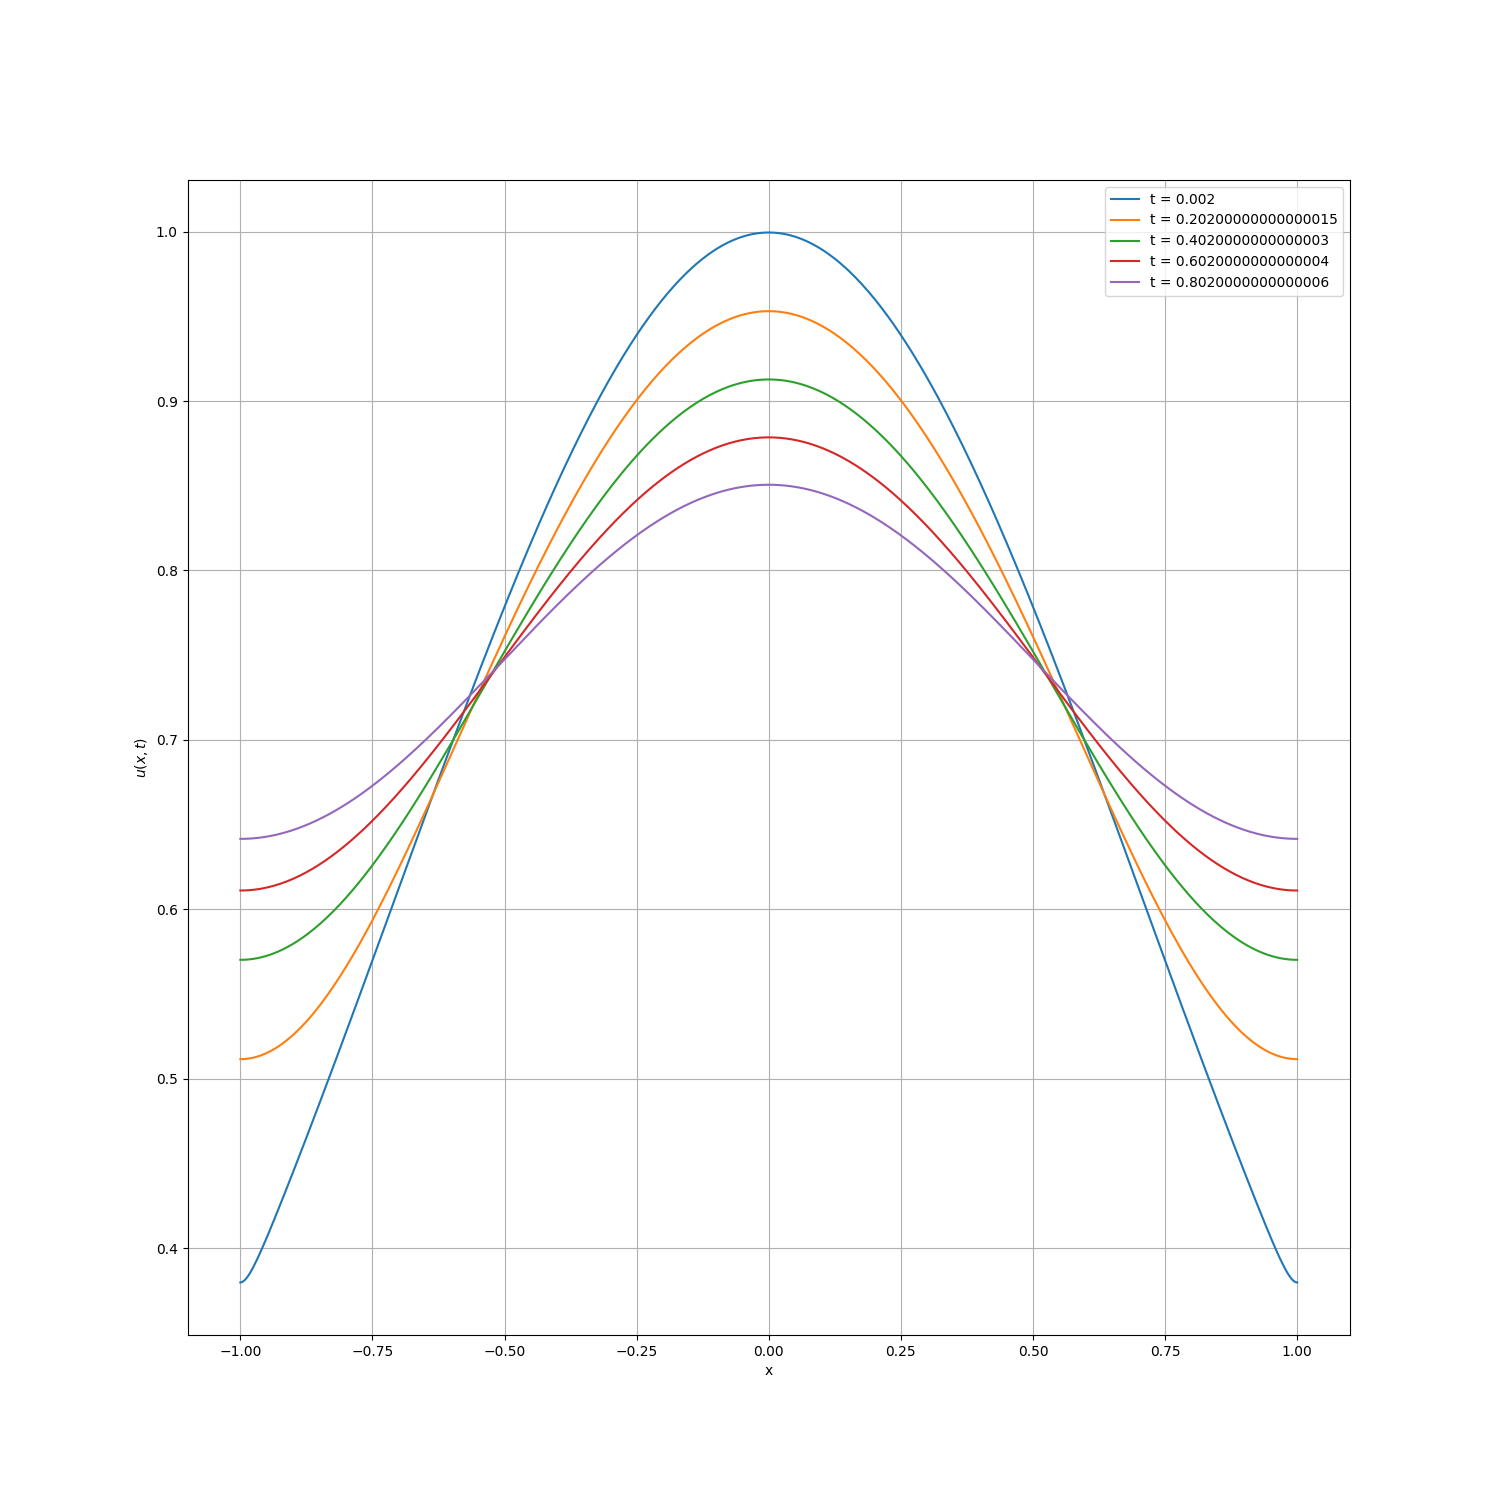
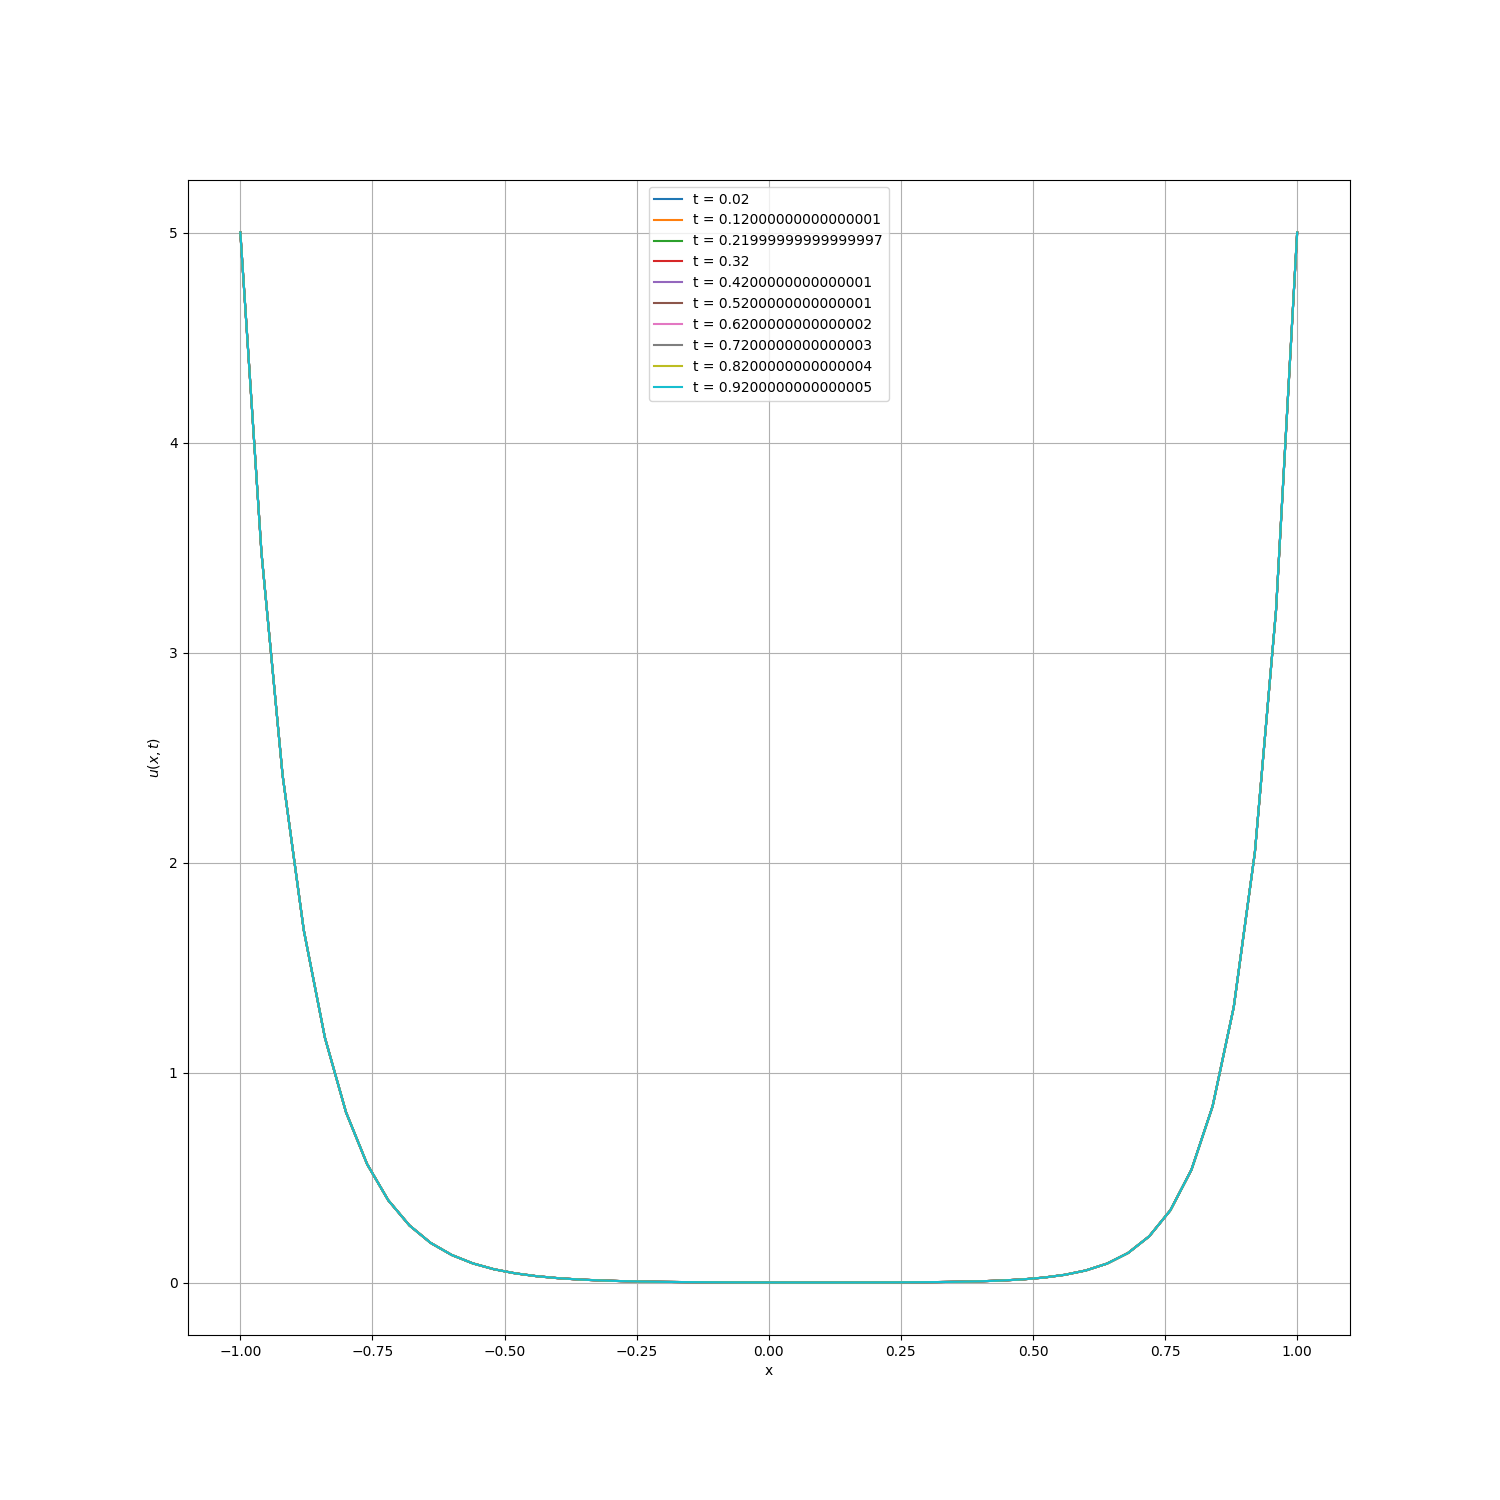
added in dirichlet BCs to avoid trivial solution

diff --git a/fokker-planck.py b/fokker-planck.py
@@ -2,7 +2,7 @@ import numpy as np
 from fenics import IntervalMesh, FunctionSpace, DOLFIN_EPS, Constant, \
                    TrialFunction, TestFunction, Function, solve, plot, File, \
                    dot, grad, dx, Expression, interpolate, lhs, rhs, inner, \
-                       TensorFunctionSpace, project
+                       TensorFunctionSpace, project, DirichletBC
 import matplotlib.pyplot as plt
 
 # Modified from class notes to apply FEM to the Fokker-Planck Equation. 
@@ -13,16 +13,26 @@ import matplotlib.pyplot as plt
 
 t_0 = 0
 t_final = 1 
-nx = 500
-num_steps = 500
-mu=0
-sigma = 0.5
+nx = 50
+num_steps = 50
+
+mu = 1
+sigma = 1
+mu_const = Constant(mu)
+sigma_const = Constant(sigma)
 
 mesh = IntervalMesh(nx, -1, 1)
 V = FunctionSpace(mesh, "Lagrange", 1)
 T = TensorFunctionSpace(mesh, "Lagrange", 1)
 
 # Homogenous Neumann BCs don't have to be defined as they are the default in dolfin
+u_D = Expression('1 + x[0]*x[0]+ beta*t',
+                 degree=2, alpha=1, beta=1, t=0)
+               
+def boundary(x, on_boundary):
+    return on_boundary
+
+bc = DirichletBC(V, Constant(5.0), boundary)
 
 # define parameters.
 dt = (t_final-t_0) / num_steps
@@ -32,7 +42,7 @@ c = sigma**2 / 2
 
 # define initial conditions u_0
 u_0 = Expression('exp(-a*pow(x[0], 2))',
-                degree=1, a=1)
+                degree=1, a=0.5)
 
 # set U_n to be the interpolant of u_0 over the function space V. Note that 
 # u_n is the value of u at the previous timestep, while u is the current value. 
@@ -45,7 +55,7 @@ v = TestFunction(V)
 f = Constant(0)
 
 if mu > 0:
-    F = u*v*dx + dt*inner(c*grad(u), grad(v))*dx + dt*mu*grad(u)*v*dx 
+    F = u*v*dx + dt*inner(c*grad(u), grad(v))*dx + dt*mu*grad(u)[0]*v*dx 
 else:
     F = u*v*dx + dt*c*inner(grad(u), grad(v))*dx - (u_n + dt*f)*v*dx 
 
@@ -56,14 +66,15 @@ u_h = Function(V)
 plt.figure(figsize=(15, 15))
 for n in range(num_steps):
     t += dt 
+    u_D.t = t 
     # compute solution 
-    solve(a == L, u_h)
+    solve(a == L, u_h, bc)
     u_n.assign(u_h)
 
     # # Save solution in VTK format
 
     # Plot solution
-    if n % 100 == 0 and num_steps > 0:
+    if n % (num_steps // 10) == 0 and num_steps > 0:
         filename = "fpe/fokker-planck-" + str(t) + ".pvd"
         file = File(filename)
         file << u_h
